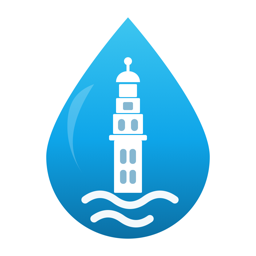
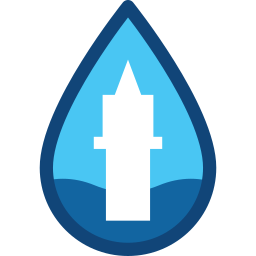
feat(brand): marca del EMASESA Design System
Sustituye el icono provisional por la marca del design system: gota con la
Giralda en negativo sobre las ondas del río, anillo azul y degradado
cyan -> azul agua. Sigue siendo creación propia y no reproduce el logotipo de
EMASESA.

- brand/logo/: las seis variantes oficiales (primario, negativo, sobre-cyan y
  las tres de una tinta), generadas desde los mismos paths y paletas que el
  componente Logo, byte a byte iguales a las del design system.
- Iconos recortados a viewBox="12 10 232 232" para que la gota toque arriba y
  abajo, como piden los iconos de aplicación; la versión con aire de respeto
  se conserva en brand/logo/.
- brand/README.md documenta cuándo usar cada variante y las reglas de la marca
  (por debajo de 24 px, una tinta; sobre cyan 500, solo sobre-cyan).

Los PNG se generan ahora con rsvg-convert en vez de qlmanage: qlmanage aplana
el resultado sobre blanco, así que los iconos anteriores llevaban fondo blanco
opaco en lugar de transparencia. Verificado: esquina RGBA (0,0,0,0).

diff --git a/brand/README.md b/brand/README.md
@@ -1,30 +1,65 @@
 # Recursos de marca
 
-Icono **original** de esta integración no oficial: una gota de agua con la
-silueta estilizada de la Giralda y las ondas del Guadalquivir.
+Marca de la integración, tomada del **EMASESA Design System**. Es una **creación
+propia** —una gota de agua con la silueta de la Giralda en negativo sobre las
+ondas del río— y **no reproduce el logotipo de EMASESA**, que es marca
+registrada de su titular, ni el emblema municipal de Sevilla (NO8DO). La
+Giralda es un monumento histórico de los siglos XII–XVI y lo representado es una
+interpretación simplificada.
 
-- `icon.svg` — fuente vectorial (edítala aquí y reexporta los PNG).
-- `icon.png` (256×256) / `icon@2x.png` (512×512)
-- `logo.png` / `logo@2x.png`
+## Variantes
 
-## Aviso
+Están en `logo/`, todas con `viewBox="0 0 256 256"`:
 
-Este dibujo es una creación propia. **No reproduce el logotipo de EMASESA**
-(marca registrada de su titular) ni el emblema municipal de Sevilla (NO8DO).
-La Giralda es un monumento histórico de los siglos XII–XVI y lo representado
-es una interpretación simplificada.
+| Archivo | Cuándo usarla |
+|---|---|
+| `logo-primario.svg` | Fondos blancos y grises. **Es la de referencia.** |
+| `logo-negativo.svg` | Fondos azul 900 y 950 |
+| `logo-sobre-cyan.svg` | Únicamente sobre cyan 500 |
+| `logo-una-tinta.svg` | Por debajo de 24 px, grabado, bordado, sello |
+| `logo-una-tinta-oscura.svg` | Reducción en azul 950 |
+| `logo-una-tinta-blanca.svg` | Reducción en blanco |
 
-## Cómo aparece en Home Assistant
+### Reglas
 
-Home Assistant toma los iconos del repositorio
+- **Por debajo de 24 px usar `una-tinta`**: a ese tamaño el cambio de tono y el
+  anillo se cierran y la torre deja de leerse.
+- Sobre cyan 500 **nunca** `primario` ni `negativo`: solo `sobre-cyan`.
+- Aire de respeto: la anchura del fuste (0,16 del lado del símbolo).
+- No estirar, no rotar, no cambiar el orden de los tonos, no añadir sombra.
+
+## Iconos de la integración
+
+| Archivo | Uso |
+|---|---|
+| `icon.png` (256×256) · `icon@2x.png` (512×512) | Icono de la integración |
+| `logo.png` / `logo@2x.png` | Copias del icono |
+| `icon-dark.png` | Variante negativa, por si hiciera falta en tema oscuro |
+
+Van recortados (`viewBox="12 10 232 232"`) para que la gota toque el borde
+superior e inferior, como piden los iconos de aplicación. **La versión de marca
+con su aire de respeto es la de `logo/`**, no estas.
+
+La torre va en negativo, así que **toma el color del fondo**: el `primario`
+funciona tanto en el tema claro como en el oscuro de Home Assistant.
+
+Los mismos PNG están duplicados en `custom_components/emasesa/brand/`, que es
+donde los busca la validación de HACS.
+
+## Reexportar
+
+Con [librsvg](https://formulae.brew.sh/formula/librsvg) (`brew install librsvg`).
+**No uses `qlmanage`**: aplana el resultado sobre blanco y se pierde la
+transparencia.
+
+```bash
+rsvg-convert -w 256 -h 256 -o brand/icon.png    brand/logo/logo-primario.svg
+rsvg-convert -w 512 -h 512 -o brand/icon@2x.png brand/logo/logo-primario.svg
+```
+
+## Que aparezca en Home Assistant
+
+Home Assistant toma los iconos de
 [home-assistant/brands](https://github.com/home-assistant/brands). Para que se
 vea en HACS y en la interfaz hay que enviar allí un PR con estos PNG en
 `custom_integrations/emasesa/`.
-
-Para reexportar los PNG desde el SVG (macOS):
-
-```bash
-qlmanage -t -s 1024 -o /tmp/iconout brand/icon.svg
-sips -z 256 256 /tmp/iconout/icon.svg.png --out brand/icon.png
-sips -z 512 512 /tmp/iconout/icon.svg.png --out brand/icon@2x.png
-```
